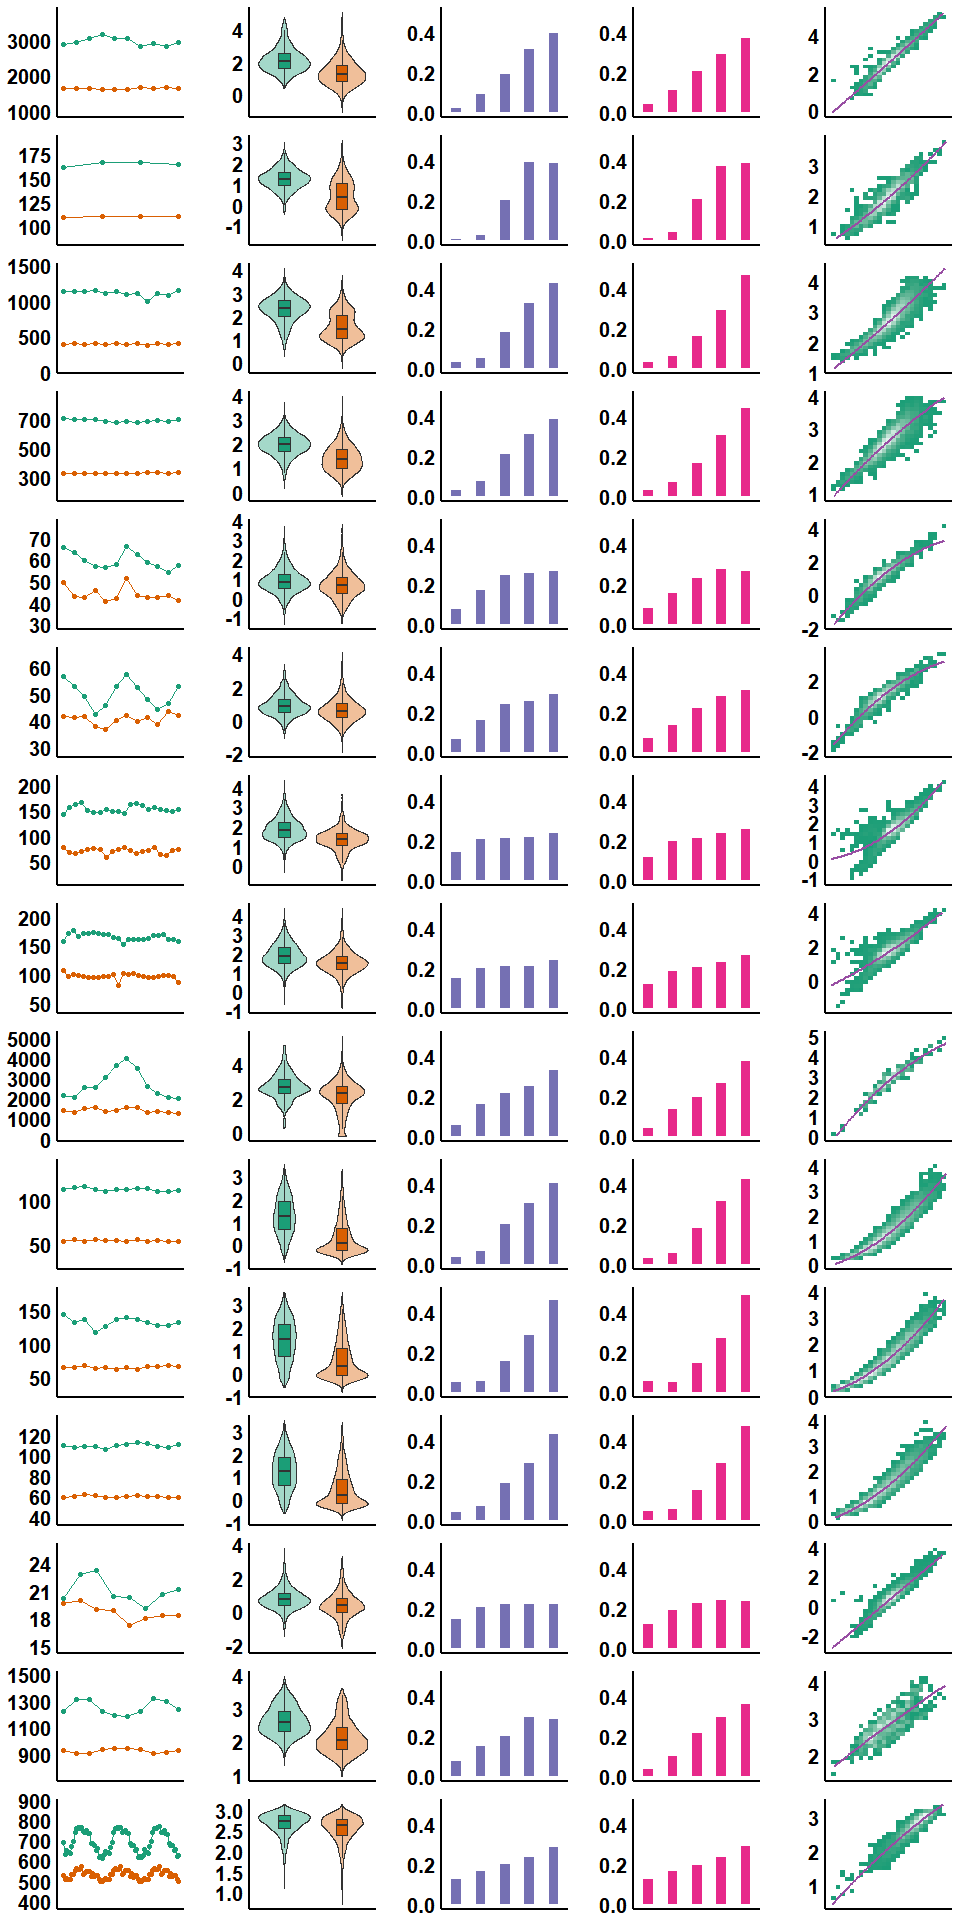
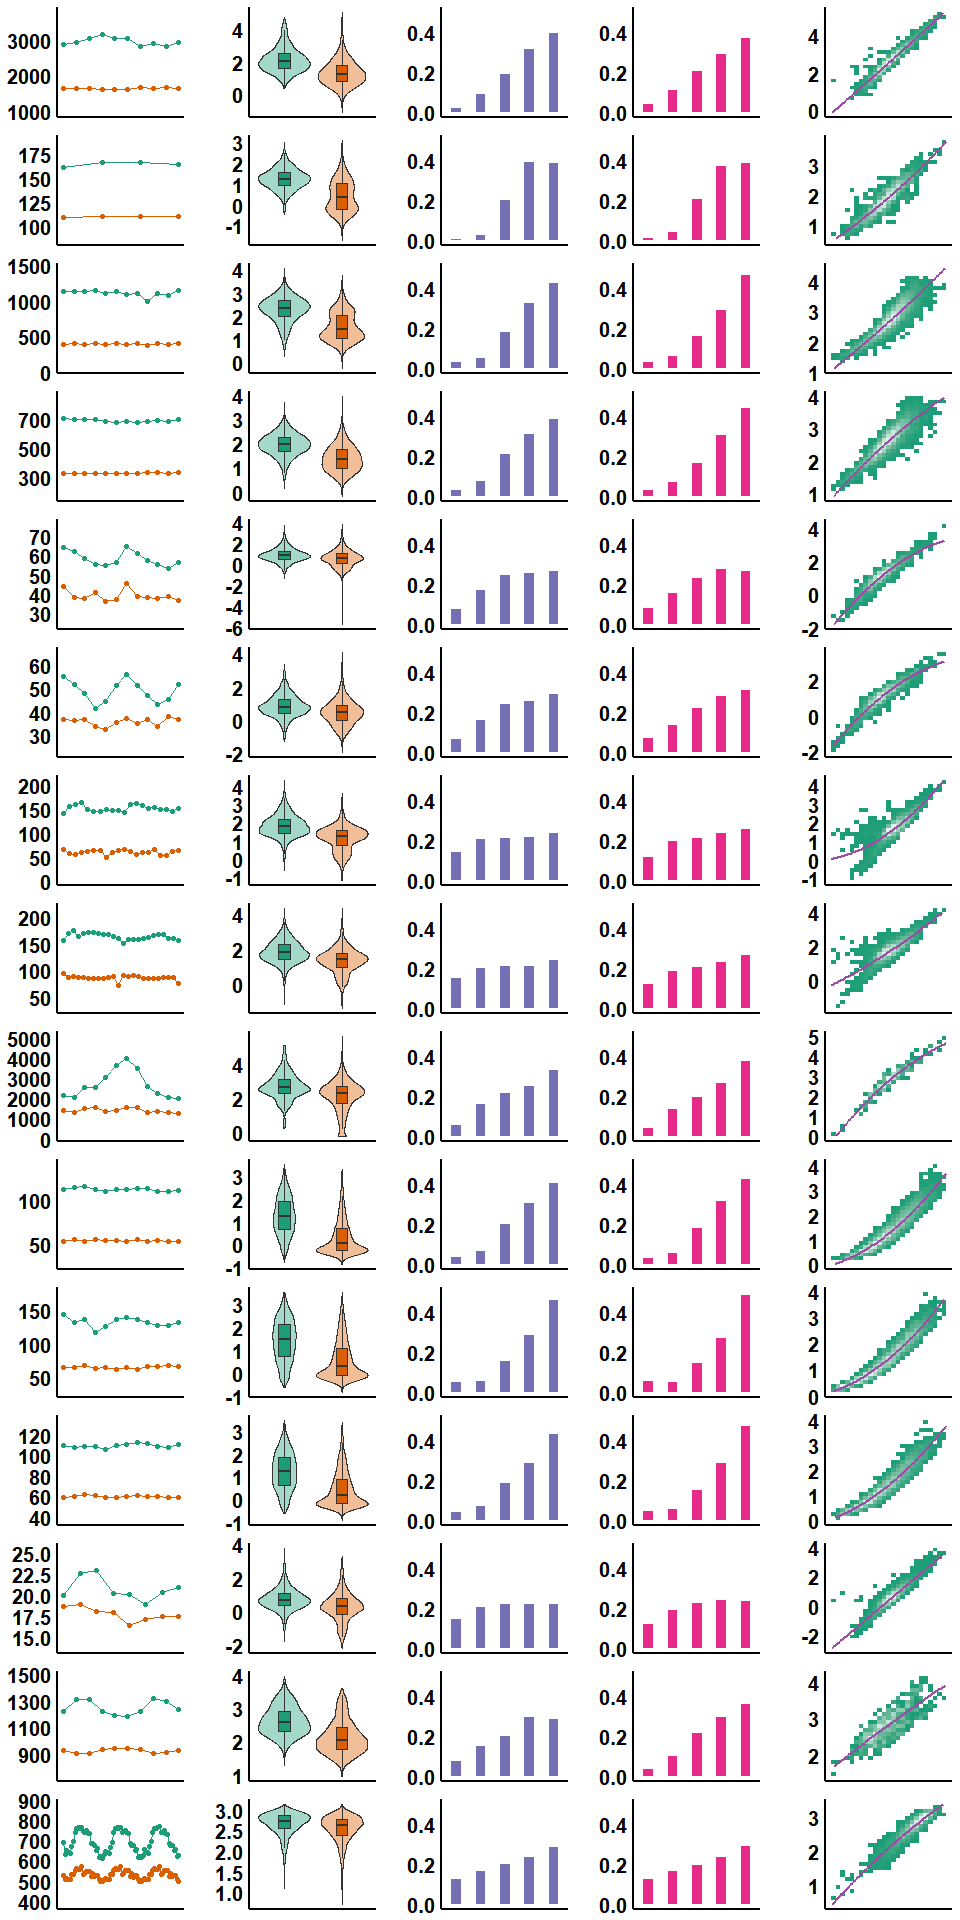
change figure3 code

diff --git a/Figure3-markdown-code-and-plot.md b/Figure3-markdown-code-and-plot.md
@@ -97,8 +97,9 @@ draw_exp_range_lineplot <- function(exp_data_name, range1, range2, exp_plot_name
   
 
   
-  id_tmp = rowSums(expr_tmp<=0, na.rm = TRUE)==0
-  tmp = tmp[id_tmp,]
+  # id_tmp = rowSums(expr_tmp<=0, na.rm = TRUE)==0
+  # tmp = tmp[id_tmp,]
+  # expr_mouse = tmp
   expr_mouse = tmp
   rownames(expr_mouse) = tmp$CycID
   expr_mouse = expr_mouse[,range1:range2]
@@ -128,10 +129,10 @@ draw_exp_range_lineplot <- function(exp_data_name, range1, range2, exp_plot_name
     
     temp_p <- wilcox.test(circ_exp[,i], non_circ_exp[,i])$p.value
     p_value_list <<- c(p_value_list, temp_p)
-    # if(temp_p > 0.05){
-    #   print(exp_data_name)
-    #   print(i)
-    # }
+    if(temp_p > 0.05){
+      print(exp_data_name)
+      print(i)
+    }
       
     non_circ_exp_sd[i] <- sd(non_circ_exp[,i])
   }
@@ -199,28 +200,28 @@ draw_exp_range_lineplot('ContainedData/Meta2dResult/AllSpecies/Fly_old.csv',  24
                         "range_boxplot_fly_old.pdf","pvalue_heatmap_fly_old.pdf")
 ```
 
-    ## [1] 7.635003e-28
+    ## [1] 8.935845e-54
 
 ``` r
 draw_exp_range_lineplot('ContainedData/Meta2dResult/AllSpecies/Fly_young.csv',  24,35,"exp_boxplot_fly_young.pdf",
                         "range_boxplot_fly_young.pdf","pvalue_heatmap_fly_young.pdf")
 ```
 
-    ## [1] 7.122695e-44
+    ## [1] 5.039825e-78
 
 ``` r
 draw_exp_range_lineplot('ContainedData/Meta2dResult/AllSpecies/Yeast_high.csv',  24,43,"exp_boxplot_yeast_high.pdf",
                         "range_boxplot_yeast_high.pdf","pvalue_heatmap_yeast_high.pdf")
 ```
 
-    ## [1] 3.95831e-49
+    ## [1] 1.348447e-96
 
 ``` r
 draw_exp_range_lineplot('ContainedData/Meta2dResult/AllSpecies/Yeast_low.csv',  24,47,"exp_boxplot_yeast_low.pdf",
                         "range_boxplot_yeast_low.pdf","pvalue_heatmap_yeast_low.pdf")
 ```
 
-    ## [1] 3.24301e-25
+    ## [1] 5.951693e-54
 
 ``` r
 draw_exp_range_lineplot('ContainedData/Meta2dResult/AllSpecies/Neurospora.csv',  24,35,"exp_boxplot_neurospora.pdf",
@@ -255,7 +256,7 @@ draw_exp_range_lineplot('ContainedData/Meta2dResult/AllSpecies/Chlamydomounas_fo
                         "range_boxplot_chlam.pdf","pvalue_heatmap_chlam.pdf")
 ```
 
-    ## [1] 3.657084e-70
+    ## [1] 1.72668e-100
 
 ``` r
 draw_exp_range_lineplot('ContainedData/Meta2dResult/AllSpecies/Cyanobacteria_for_heatmap.csv',  19,28,"exp_boxplot_cyano.pdf",
@@ -296,7 +297,7 @@ draw_exp_range_boxplot <- function(exp_data_name, range1, range2, exp_plot_name,
   rownames(expr_tmp) = tmp$CycID
   expr_tmp = expr_tmp[,range1:range2]
   expr_tmp = as.matrix(expr_tmp)
-  id_tmp = rowSums(expr_tmp<=0)==0
+  id_tmp = rowSums(expr_tmp<0)==0
   tmp = tmp[id_tmp,]
   expr_mouse = tmp
   rownames(expr_mouse) = tmp$CycID
@@ -409,7 +410,7 @@ draw_exp_range_boxplot('ContainedData/Meta2dResult/AllSpecies/Fly_old.csv',  24,
     ##  Wilcoxon rank sum test with continuity correction
     ## 
     ## data:  cir_input_new and non_cir_input_new
-    ## W = 7751132, p-value < 2.2e-16
+    ## W = 9317325, p-value < 2.2e-16
     ## alternative hypothesis: true location shift is not equal to 0
 
 ``` r
@@ -421,7 +422,7 @@ draw_exp_range_boxplot('ContainedData/Meta2dResult/AllSpecies/Fly_young.csv',  2
     ##  Wilcoxon rank sum test with continuity correction
     ## 
     ## data:  cir_input_new and non_cir_input_new
-    ## W = 8307909, p-value < 2.2e-16
+    ## W = 10055452, p-value < 2.2e-16
     ## alternative hypothesis: true location shift is not equal to 0
 
 ``` r
@@ -433,7 +434,7 @@ draw_exp_range_boxplot('ContainedData/Meta2dResult/AllSpecies/Yeast_high.csv',  
     ##  Wilcoxon rank sum test with continuity correction
     ## 
     ## data:  cir_input_new and non_cir_input_new
-    ## W = 4326046, p-value < 2.2e-16
+    ## W = 5295358, p-value < 2.2e-16
     ## alternative hypothesis: true location shift is not equal to 0
 
 ``` r
@@ -445,7 +446,7 @@ draw_exp_range_boxplot('ContainedData/Meta2dResult/AllSpecies/Yeast_low.csv',  2
     ##  Wilcoxon rank sum test with continuity correction
     ## 
     ## data:  cir_input_new and non_cir_input_new
-    ## W = 5098572, p-value < 2.2e-16
+    ## W = 5956683, p-value < 2.2e-16
     ## alternative hypothesis: true location shift is not equal to 0
 
 ``` r
@@ -505,7 +506,7 @@ draw_exp_range_boxplot('ContainedData/Meta2dResult/AllSpecies/Chlamydomounas_for
     ##  Wilcoxon rank sum test with continuity correction
     ## 
     ## data:  cir_input_new and non_cir_input_new
-    ## W = 36946410, p-value < 2.2e-16
+    ## W = 40245932, p-value < 2.2e-16
     ## alternative hypothesis: true location shift is not equal to 0
 
 ``` r
